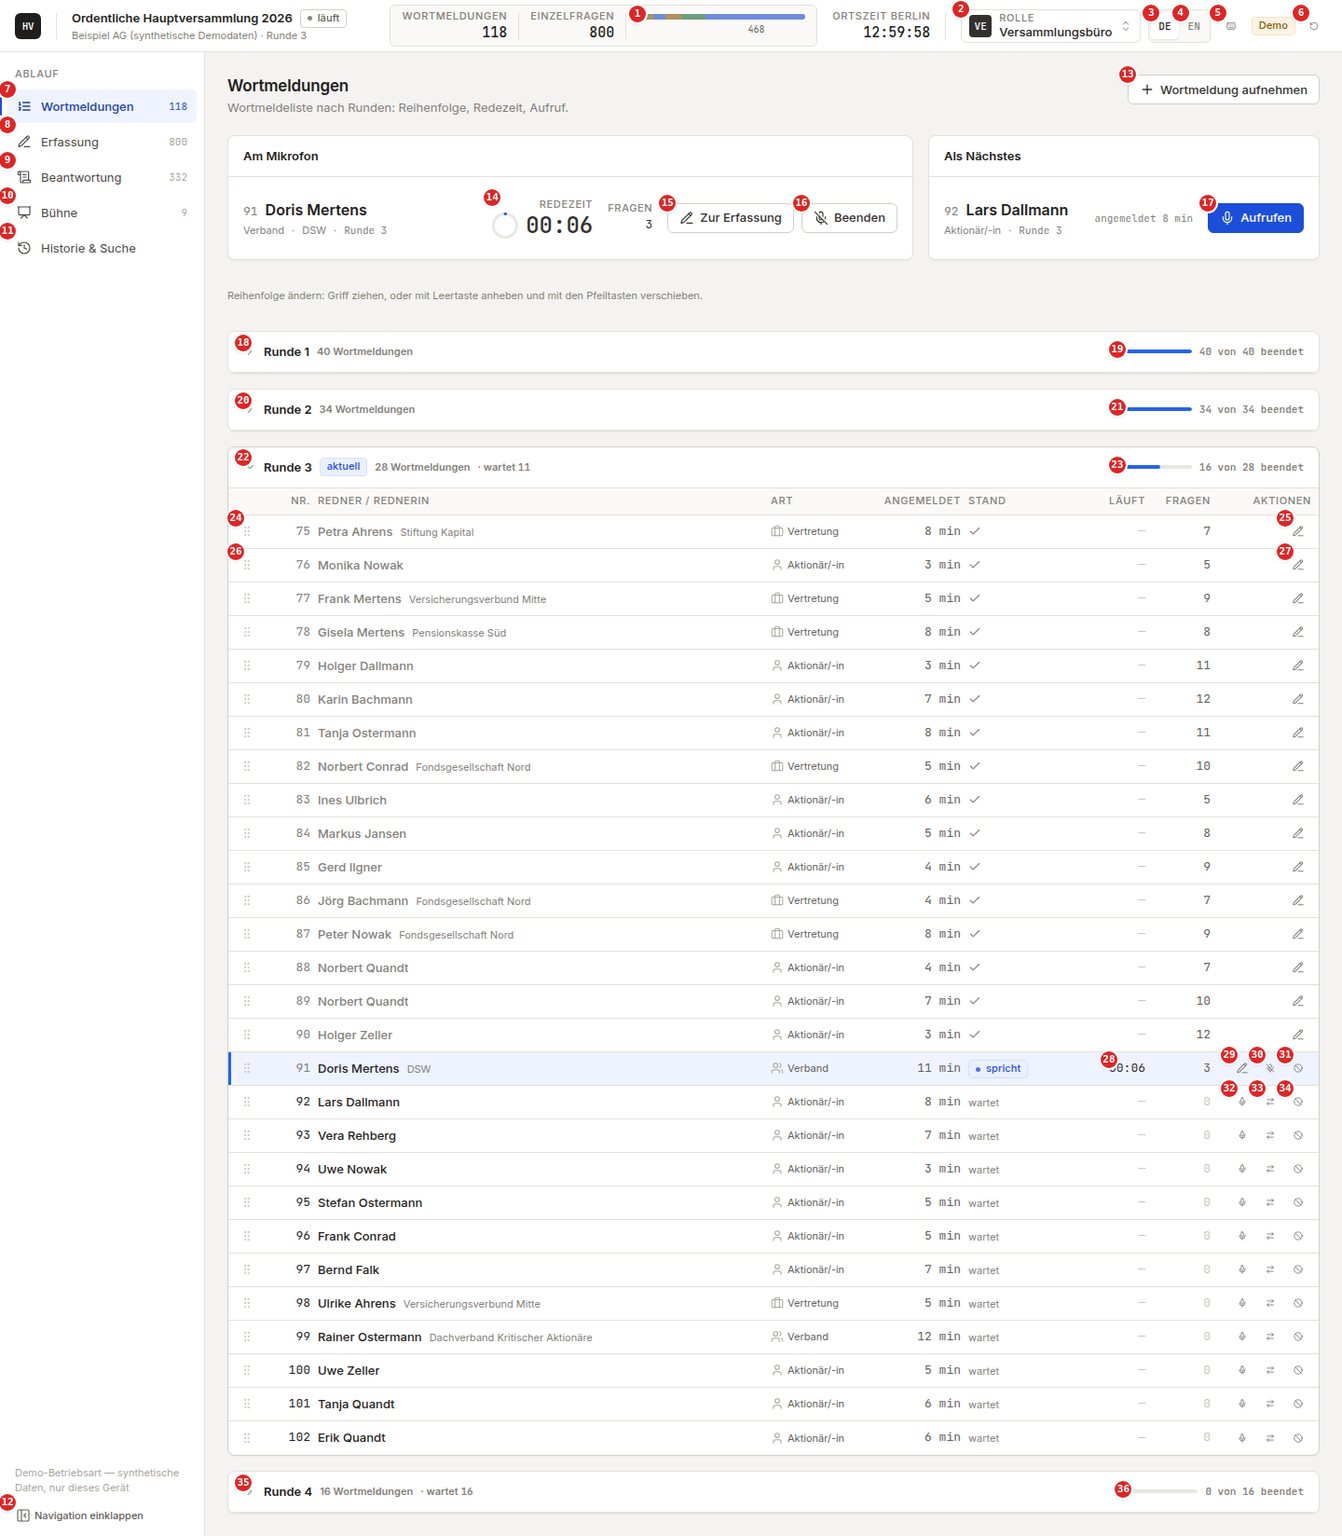
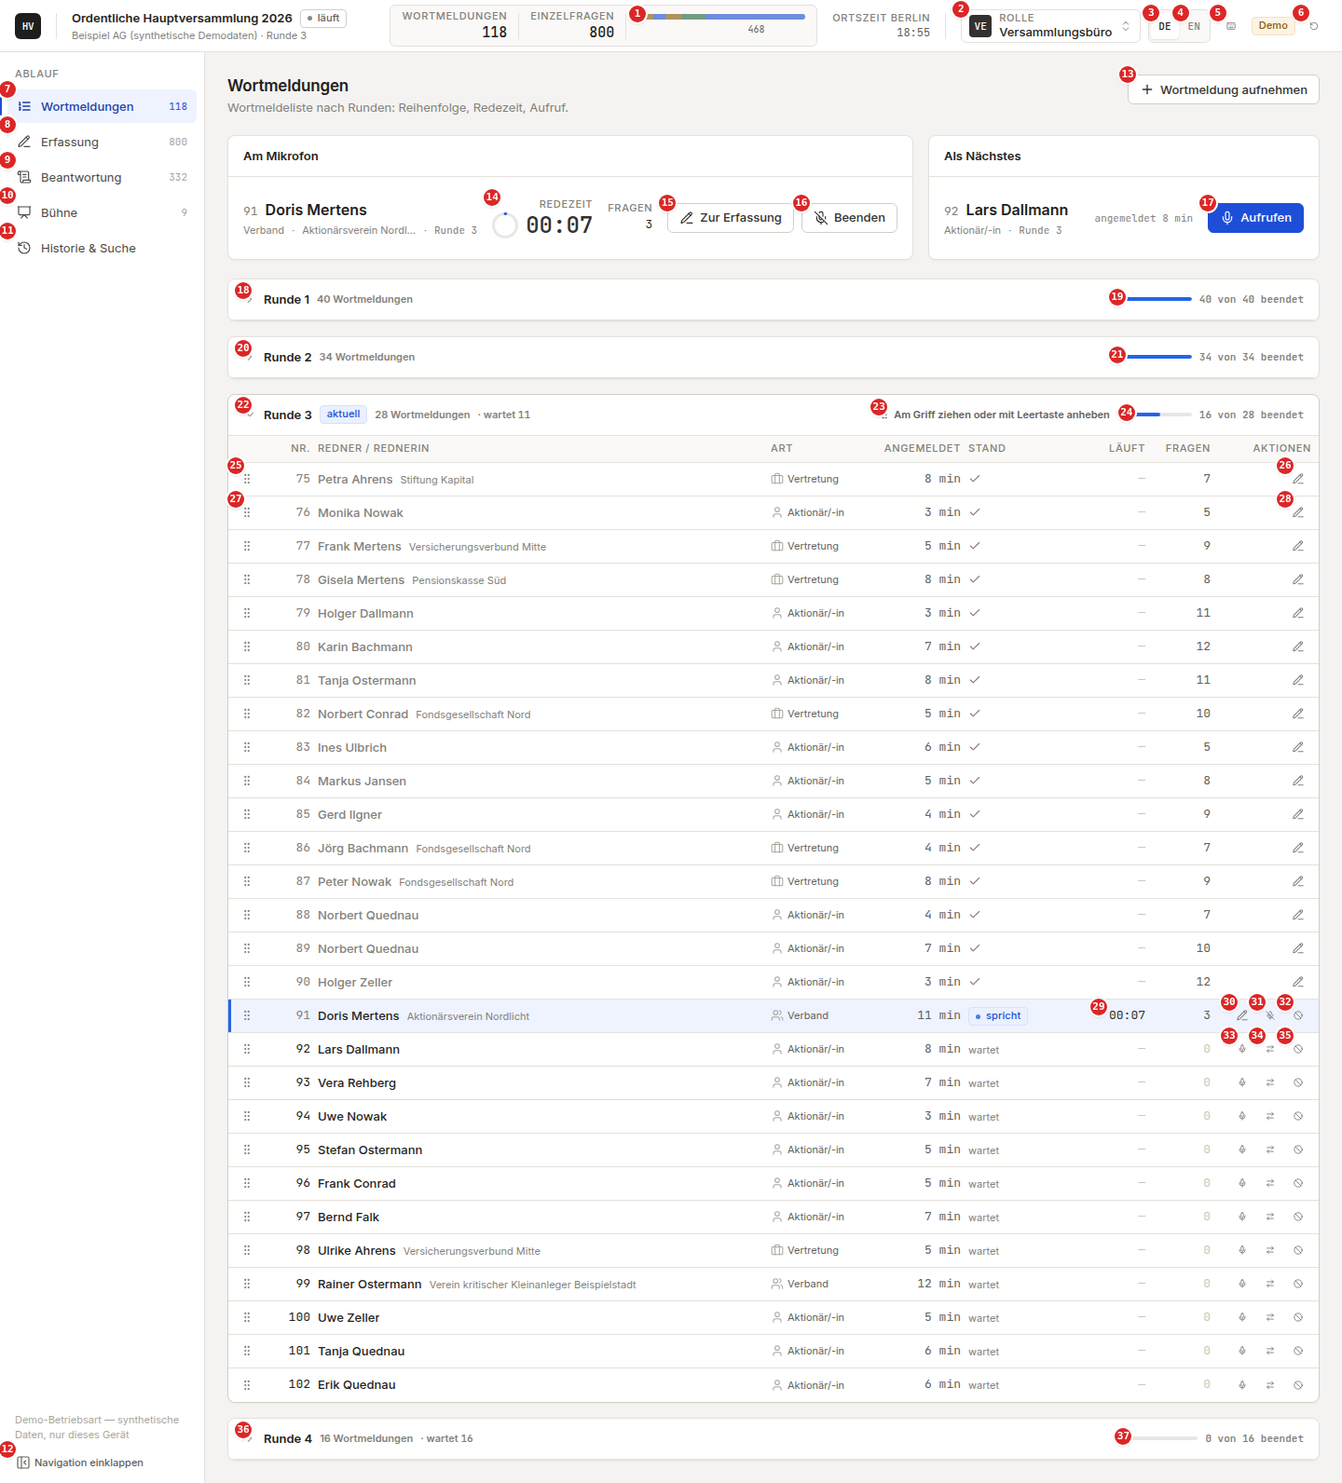
fix(domain): takt-004 fiktive Vereinsnamen im Seed, Screenshot des Fragenpakets neu [skip netlify]
Scheibe takt-004: ASSOCIATIONS/LAST_NAMES im Seed auf erkennbar fiktive Namen umgestellt (Review 014
Runde 1 Befund 10, Runde 2 Punkt 11), Zufallsfolge unverändert (gleiche Array-Längen/Reihenfolge),
neuer Test seed-fictitious-names.test.ts. Wortmeldeliste-Screenshot auf dem Stand nach Scheibe 020
neu erzeugt (37 statt 36 Marken: neuer Rundenhinweis Runde 3), N5 behoben (Marke deckte eine Ziffer
der Redezeit ab). Legende und Zahl-Nennungen im Fragenpaket entsprechend angepasst, Frage 1
unverändert.

Claude-Session: https://claude.ai/code/session_01S9NCWL4pWEoGm6P6dJbckX

diff --git a/packages/domain/src/__tests__/seed-fictitious-names.test.ts b/packages/domain/src/__tests__/seed-fictitious-names.test.ts
@@ -1,0 +1,56 @@
+/**
+ * takt-004: the synthetic corpus must never resemble a real shareholder association or a known
+ * family name from the shareholder-activism context (review 014 round 1 finding 10, round 2 point
+ * 11). This test guards the fix in `seed.ts` (`ASSOCIATIONS`, `LAST_NAMES`) so a future edit cannot
+ * silently reintroduce one of the five old names, and pins the corpus size the fix must not change.
+ */
+import { describe, expect, it } from 'vitest';
+import { project } from '../state.js';
+import { seedEvents } from '../seed.js';
+import type { DomainEvent } from '../events.js';
+
+// Same options as the corpus test in `seed.test.ts`, so the counts below are the ones already
+// established for today's seed (118 Wortmeldungen from `roundSizes`, 800 Einzelfragen requested).
+const OPTIONS = {
+  questions: 800,
+  seed: 2027,
+  now: new Date('2027-04-20T13:30:00.000Z'),
+  actor: { id: 'sys', role: 'admin' as const },
+};
+
+const FORBIDDEN_NAMES = [
+  /DSW/,
+  /SdK/,
+  /Kritischer Aktionäre/,
+  /Kleinaktionäre/,
+  /Quandt/,
+];
+
+describe('seed corpus: no real association or family names (takt-004)', () => {
+  const events = seedEvents(OPTIONS);
+  const state = project(events.map((e, i) => ({ ...e, seq: i + 1 }) as DomainEvent));
+
+  it('does not contain any of the five retired names anywhere in speaker or contribution text', () => {
+    const haystack: string[] = [];
+    for (const speaker of state.speakers.values()) {
+      haystack.push(speaker.displayName);
+      if (speaker.organisation !== undefined) haystack.push(speaker.organisation);
+    }
+    for (const contribution of state.contributions.values()) haystack.push(contribution.text);
+    const joined = haystack.join('\n');
+    for (const pattern of FORBIDDEN_NAMES) {
+      expect(joined).not.toMatch(pattern);
+    }
+  });
+
+  it('keeps the same number of Wortmeldungen and Einzelfragen as before the name change', () => {
+    // roundSizes = [40, 34, 28, 16] in seed.ts — unchanged by this slice.
+    expect(state.speakers.size).toBe(118);
+    expect(state.questions.size).toBe(800);
+  });
+
+  it('keeps the seeded random sequence unchanged (same event ids and types as the reference run)', () => {
+    const again = seedEvents(OPTIONS);
+    expect(again.map((e) => e.type + e.subjectId)).toEqual(events.map((e) => e.type + e.subjectId));
+  });
+});

diff --git a/packages/domain/src/seed.ts b/packages/domain/src/seed.ts
@@ -310,8 +310,11 @@ const CLOSINGS = [
 ];
 const FIRST_NAMES_F = ['Anna', 'Birgit', 'Claudia', 'Doris', 'Eva', 'Frauke', 'Gisela', 'Hanna', 'Ines', 'Julia', 'Karin', 'Lena', 'Monika', 'Nadine', 'Petra', 'Renate', 'Sabine', 'Tanja', 'Ulrike', 'Vera'];
 const FIRST_NAMES_M = ['Andreas', 'Bernd', 'Christian', 'Dieter', 'Erik', 'Frank', 'Gerd', 'Holger', 'Ingo', 'Jörg', 'Klaus', 'Lars', 'Markus', 'Norbert', 'Olaf', 'Peter', 'Rainer', 'Stefan', 'Thomas', 'Uwe'];
-const LAST_NAMES = ['Ahrens', 'Bachmann', 'Conrad', 'Dallmann', 'Ebert', 'Falk', 'Grunwald', 'Hartwig', 'Ilgner', 'Jansen', 'Kessler', 'Lindner', 'Mertens', 'Nowak', 'Ostermann', 'Pfeiffer', 'Quandt', 'Rehberg', 'Seidel', 'Thalmann', 'Ulbrich', 'Vogt', 'Wendt', 'Zeller'];
-const ASSOCIATIONS = ['DSW', 'SdK', 'Verband der Kleinaktionäre', 'Dachverband Kritischer Aktionäre'];
+const LAST_NAMES = ['Ahrens', 'Bachmann', 'Conrad', 'Dallmann', 'Ebert', 'Falk', 'Grunwald', 'Hartwig', 'Ilgner', 'Jansen', 'Kessler', 'Lindner', 'Mertens', 'Nowak', 'Ostermann', 'Pfeiffer', 'Quednau', 'Rehberg', 'Seidel', 'Thalmann', 'Ulbrich', 'Vogt', 'Wendt', 'Zeller'];
+// Fictitious associations only (takt-004): the demo corpus must never resemble a real shareholder
+// association (review 014 round 1 finding 10, round 2 point 11) — same count and order as before, so
+// the seeded RNG sequence (and every downstream id/timestamp) is unchanged.
+const ASSOCIATIONS = ['Aktionärsverein Nordlicht', 'Schutzgemeinschaft Musterstadt', 'Anlegerkreis am Elbufer', 'Verein kritischer Kleinanleger Beispielstadt'];
 const INSTITUTIONS = ['Fondsgesellschaft Nord', 'Pensionskasse Süd', 'Versicherungsverbund Mitte', 'Stiftung Kapital'];
 
 function fill(template: string, rnd: () => number, year: number): string {

diff --git a/docs/slices/takt-004-seed-fiktive-namen.md b/docs/slices/takt-004-seed-fiktive-namen.md
@@ -1,6 +1,6 @@
 # takt-004 — Seed: fiktive Vereinsnamen, Screenshot des Fragenpakets neu
 
-**Status:** spec
+**Status:** review
 **Klasse:** S (Kleinänderungsspur, Produktplan 5.9) · Risikoklasse niedrig · Lanes: core (nur `seed.ts`; 012 gemergt,
 keine laufende Scheibe hält core), docs-feedback
 **Rolle/Modell:** Implementierer-Oberfläche · Sonnet 5 baut (Screenshot mit Legende, wie in 014); Review Opus 5.5
@@ -47,6 +47,156 @@ Treffer; die neue PNG und der Befehl, mit dem sie erzeugt wurde.
 ## Bericht
 
 (vom Bauenden)
+
+**1. Seed.** `packages/domain/src/seed.ts`: `ASSOCIATIONS` auf die vier vorgegebenen fiktiven Namen
+umgestellt (`Aktionärsverein Nordlicht`, `Schutzgemeinschaft Musterstadt`, `Anlegerkreis am Elbufer`,
+`Verein kritischer Kleinanleger Beispielstadt`), gleiche Anzahl und Reihenfolge; `LAST_NAMES`:
+`'Quandt'` an derselben Stelle durch `'Quednau'` ersetzt. Kein Array hat die Länge geändert, also
+zieht `pick()` (`Math.floor(rnd() * arr.length)`) exakt dieselben Indizes wie vorher — die
+Zufallsfolge des Seeds bleibt unverändert. Neuer Test
+`packages/domain/src/__tests__/seed-fictitious-names.test.ts` (gleiche Seed-Optionen wie
+`seed.test.ts`: `questions: 800, seed: 2027, now: 2027-04-20T13:30:00Z`) prüft: (a) keiner der fünf
+alten Namen kommt in Redner-Namen, Organisationen oder Redebeitragstexten vor, (b) 118
+Wortmeldungen (`roundSizes` 40+34+28+16, unverändert) und 800 Einzelfragen bleiben exakt gleich, (c)
+ein zweiter Lauf mit denselben Optionen erzeugt exakt dieselbe Ereignisfolge (Typ+SubjectId je
+Event) wie der Referenzlauf — Determinismus/Zufallsfolge bestätigt.
+
+**2. Screenshot und Legende.** Vite lief unter `apps/web` auf Port 4393
+(`pnpm exec vite --port 4393 --strictPort`). Die Skripte aus
+`.../scratchpad/shot014/{shot.mjs,generate-legend.mjs}` wurden nach
+`.../scratchpad/shot-takt004/` kopiert und dort angepasst (Pfade auf `/home/user/wt/takt`, Port
+4393; beide Kopien bleiben im Scratch, nicht im Repo):
+- `shot.mjs`: prüft jetzt je Runde, ob `round-drag-hint-${round}` sichtbar ist (statt fest auf Runde 3
+  verdrahtet) und badgt ihn zwischen Rundenkopf-Schalter und Rundenfortschritt — genau die Stelle, an
+  der der Hinweis seit Scheibe 020 im Rundenkopf sitzt. Für Runde 3 (einzige offene Runde) ergab das
+  einen neuen Marker (jetzt Nr. 23), macht 37 statt vormals 36 Marken.
+- N5 behoben ("Marke 28 verdeckt eine Ziffer", jetzt Marke 29 `row-speaking-elapsed`): die Marke lag
+  exakt auf der ersten Ziffer der Redezeit ("00:06"); sie wird jetzt 11 px nach links in die
+  vorhandene Leerfläche der rechtsbündigen LÄUFT-Spalte verschoben, deckt keine Ziffer mehr ab
+  (verifiziert per Bildschnitt vor/nach der Änderung).
+- Ein zweites, beim Nacharbeiten gefundenes Problem gleicher Art: der neue Rundenhinweis und die
+  Rundenfortschritts-Anzeige liegen nur 8 px auseinander; die Fortschritts-Marke hätte das letzte
+  Wort des Hinweistexts angeschnitten. Fix: Fortschritts-Marke um 10 px nach rechts, hinter den
+  Hinweistext.
+- `generate-legend.mjs`: Pfade auf `.../shot-takt004/legend.json` und
+  `docs/feedback/2026-10-fragenpaket-woche-1.md` umgestellt; neue Beschriftung/Beschreibung für
+  `round-N-drag-hint` ("Verschiebehinweis Runde N") ergänzt, dynamisch nach Rundennummer, sonst
+  unverändert (Querverweise, „weitere Zeilen"-Absatz bleiben automatisch berechnet).
+
+Befehle (in dieser Reihenfolge):
+```
+cd /home/user/wt/takt/apps/web && pnpm exec vite --port 4393 --strictPort &
+node /tmp/claude-0/-home-user-hvworkflow/ba1d545a-db2b-57e2-a725-96ea31145014/scratchpad/shot-takt004/shot.mjs
+node /tmp/claude-0/-home-user-hvworkflow/ba1d545a-db2b-57e2-a725-96ea31145014/scratchpad/shot-takt004/generate-legend.mjs
+```
+Ausgabe: `Wrote .../docs/feedback/2026-10-fragenpaket-wortmeldeliste.png`, `Badged 37 elements.`,
+`Patched .../2026-10-fragenpaket-woche-1.md with 37 legend rows.`
+
+Die PNG wurde mit dem Read-Werkzeug angesehen und jede der 37 Nummern gegen ihre Legendenzeile
+geprüft (Header/Navigation 1–13, Am-Mikrofon/Als-Nächstes 14–17, Rundenköpfe 18–24 inkl. neuem
+Hinweis 23, Zeilen 25–35, Runde 4 36–37); keine Marke deckt Text ab, Nummern laufen 1..37 ohne
+Lücke. Die Uhr im Header (kleine HH:MM-Anzeige, „ORTSZEIT BERLIN 18:5x") ist kein Bedienelement und
+kein neuer Hinweis und bleibt deshalb unnummeriert; sie wird von keiner Marke verdeckt.
+
+**3. Fragenpaket.** `docs/feedback/2026-10-fragenpaket-woche-1.md`: nur die Legendentabelle im Anhang
+wurde ersetzt (37 statt 36 Zeilen; neue Zeile 23 „Verschiebehinweis Runde 3", alle Folgenummern und
+die Querverweise im Absatz danach automatisch verschoben). Frage 1 (Text, Kontext, Annahme, Frist)
+unverändert; sonst nennt das Fragenpaket die Zahl 36 an keiner weiteren Stelle (geprüft per Grep).
+
+**4. Gates und Tests.** `pnpm gates` grün (Tail unten). Vollständige Playwright-Suite
+(`E2E_PORT=4342 pnpm exec playwright test` in `apps/web`): 9/9 grün. Anschließend
+`git -C /home/user/wt/takt checkout -- docs/evidence` ausgeführt — die durch die neuen Namen
+geänderten Nachweisbilder alter Scheiben wurden verworfen, nichts davon committet.
+`git -C /home/user/wt/takt grep -n "DSW\|SdK\|Kritischer Aktionäre\|Kleinaktionäre\|Quandt"` liefert
+nur zwei Treffer, beide in dieser Spec-Datei selbst (Ziel-Absatz 2 und der Nachweis-Absatz, die den
+zu ersetzenden Namen bzw. den Prüfbefehl wörtlich zitieren); im Seed, im erzeugten Korpus, im
+Screenshot, in der Legende und überall sonst im Repository kein Treffer.
+
+**Evidence (Tail `pnpm gates`):**
+```
+> hvworkflow@0.1.0 vocabulary /home/user/wt/takt
+> node scripts/vocabulary-check.mjs
+
+vocabulary-check: ok
+
+> hvworkflow@0.1.0 arch /home/user/wt/takt
+> depcruise --config scripts/dependency-cruiser.cjs apps/web/src apps/api/src packages/domain/src
+
+  warn web-features-i18n-domain-types-only: apps/web/src/features/stage/Page.tsx → packages/domain/src/index.ts
+  warn web-features-i18n-domain-types-only: apps/web/src/features/speakers/Page.tsx → packages/domain/src/index.ts
+  warn web-features-i18n-domain-types-only: apps/web/src/features/capture/ClassifyDialog.tsx → packages/domain/src/index.ts
+  warn web-features-i18n-domain-types-only: apps/web/src/features/answers/WorkList.tsx → packages/domain/src/index.ts
+  warn web-features-i18n-domain-types-only: apps/web/src/features/answers/useBacklog.ts → packages/domain/src/index.ts
+  warn web-features-i18n-domain-types-only: apps/web/src/features/answers/QuestionDetail.tsx → packages/domain/src/index.ts
+  warn web-features-i18n-domain-types-only: apps/web/src/features/answers/Page.tsx → packages/domain/src/index.ts
+
+x 7 dependency violations (0 errors, 7 warnings). 132 modules, 487 dependencies cruised.
+
+> hvworkflow@0.1.0 role-literals /home/user/wt/takt
+> node scripts/role-literal-check.mjs
+
+Role-literal check: no role-name literal outside the policy layer (apps/api/src, packages/domain/src); roles from packages/domain/src/types.ts: moderation, capture, expert, legal, approver, podium, admin, observer (role-context required only for: expert, legal, podium).
+
+> hvworkflow@0.1.0 now-check /home/user/wt/takt
+> node scripts/now-check.mjs
+
+now() check: no direct system-clock access outside the injected clock (packages/domain/src, apps/api/src).
+
+> hvworkflow@0.1.0 plan-honesty /home/user/wt/takt
+> node scripts/plan-honesty.mjs
+
+Plan-honesty check: 4 table(s), 38 row(s) in section 5, every "Stand" verified.
+
+> @hv/web@0.0.0 build /home/user/wt/takt/apps/web
+> tsc -b && vite build
+
+vite v8.2.2 building client environment for production...
+transforming...
+✓ 1714 modules transformed.
+rendering chunks...
+computing gzip size...
+dist/index.html                                        0.43 kB │ gzip:   0.27 kB
+dist/assets/jetbrains-mono-latin-ext-DIC32ArD.woff2   11.62 kB
+dist/assets/jetbrains-mono-latin-6fWv1k7M.woff2       31.43 kB
+dist/assets/inter-latin-Dx4kXJAl.woff2                48.25 kB
+dist/assets/inter-latin-ext-DO1Apj_S.woff2            85.06 kB
+dist/assets/index-l931jxa-.css                        39.97 kB │ gzip:   8.67 kB
+dist/assets/index-DVViwHry.js                        528.48 kB │ gzip: 155.10 kB │ map: 2,175.78 kB
+✓ built in 1.01s
+```
+
+**Evidence (`pnpm --filter @hv/domain test`, enthalten in `pnpm gates`):**
+```
+ Test Files  5 passed (5)
+      Tests  42 passed (42)
+```
+
+**Evidence (Playwright, `E2E_PORT=4342 pnpm exec playwright test`):**
+```
+Running 9 tests using 2 workers
+
+  ✓  1 [chromium] › e2e/001-shell.spec.ts:16:1 › shell: counters, role switch, language switch @screenshot (3.7s)
+  ✓  3 [chromium] › e2e/001-shell.spec.ts:75:1 › header strip on the answers desk @screenshot (3.0s)
+  ✓  2 [chromium] › e2e/002-speakers-capture.spec.ts:61:1 › speakers list and capture desk @screenshot (10.5s)
+  ✓  5 [chromium] › e2e/020-rueckbau-passung.spec.ts:198:1 › 020: Rückbau und Passung — points 1–9, axe on the five views (21.5s)
+  ✓  6 [chromium] › e2e/020-rueckbau-passung.spec.ts:599:1 › 020: "Nur Bühne" default — aus den Rechten, nicht aus der Rolle (6.3s)
+  ✓  7 [chromium] › e2e/020-rueckbau-passung.spec.ts:642:1 › 020: Uhr — keine Änderung innerhalb einer Minute, exakt eine am Minutenwechsel (1.4s)
+  ✓  8 [chromium] › e2e/020-rueckbau-passung.spec.ts:682:1 › 020: leere Zustände — Erfassung ohne Redebeitrag, Bühne ohne Warteschlange (5.3s)
+  ✓  4 [chromium] › e2e/003-answers-stage.spec.ts:43:1 › backlog, approval, podium and history @screenshot (48.7s)
+  ✓  9 [chromium] › e2e/abnahme.spec.ts:86:1 › @abnahme Redebeitrag zu sieben Einzelfragen, beantwortet, freigegeben, vorgelesen (39.1s)
+
+  9 passed (1.5m)
+```
+
+**Grep-Nachweis:**
+```
+$ git -C /home/user/wt/takt grep -n "DSW\|SdK\|Kritischer Aktionäre\|Kleinaktionäre\|Quandt"
+docs/slices/takt-004-seed-fiktive-namen.md:17:2. `LAST_NAMES`: `'Quandt'` durch `'Quednau'` ersetzen (gleiche Stelle; ein bekannter Familienname im
+docs/slices/takt-004-seed-fiktive-namen.md:44:Tail von `pnpm gates`; alle Playwright-Szenarien grün; `git grep -n "DSW\|SdK\|Kritischer Aktionäre\|Kleinaktionäre\|Quandt"` ohne
+```
+Beide Treffer sind Selbstzitate dieser Spec (die zu ersetzenden Namen im Ziel-Absatz, der Prüfbefehl
+im Nachweis-Absatz) — unvermeidbar, solange die Spec unverändert bleibt. Kein Treffer in Code, Seed,
+Testdaten, PNG oder Fragenpaket.
 
 ## Review findings
 

diff --git a/docs/feedback/2026-10-fragenpaket-woche-1.md b/docs/feedback/2026-10-fragenpaket-woche-1.md
@@ -275,19 +275,20 @@ sichtbaren Knöpfen; jede Nummer markiert einen Knopf oder ein Bedienelement).
 | 20 | Runde 2 ausklappen | Klappt Runde 2 auf, um ihre Wortmeldungen zu zeigen; eingeklappt, weil nicht die aktuelle Runde. |
 | 21 | Rundenfortschritt Runde 2 | Zeigt den Anteil der in Runde 2 bereits beendeten Wortmeldungen. |
 | 22 | Runde 3 einklappen | Klappt die aktuelle Runde 3 wieder ein; sie ist beim Öffnen der Wortmeldeliste automatisch aufgeklappt. |
-| 23 | Rundenfortschritt Runde 3 | Zeigt den Anteil der in Runde 3 bereits beendeten Wortmeldungen. |
-| 24 | Wortmeldung 75 verschieben | Greift Wortmeldung Nr. 75 zum Verschieben innerhalb von Runde 3 (Ziehen, oder Leertaste zum Anheben und Pfeiltasten zum Verschieben); derselbe Griff steht am linken Rand jeder Zeile. |
-| 25 | Redebeitrag von Wortmeldung 75 erfassen | Öffnet die Erfassung für Wortmeldung Nr. 75, weil sie bereits gesprochen hat; dieselbe Schaltfläche erscheint in jeder Zeile mit dem Stand „spricht" oder „beendet". |
-| 26 | Wortmeldung 76 verschieben | Greift Wortmeldung Nr. 76 zum Verschieben innerhalb von Runde 3; gleich in jeder Zeile (siehe Nr. 24). |
-| 27 | Redebeitrag von Wortmeldung 76 erfassen | Öffnet die Erfassung für Wortmeldung Nr. 76; gleich in jeder Zeile mit dem Stand „spricht" oder „beendet" (siehe Nr. 25). |
-| 28 | Läuft (Wortmeldung 91) | Digitalanzeige der laufenden Redezeit von Wortmeldung Nr. 91 (Spalte „Läuft"); zeigt „—", solange niemand am Mikrofon ist. |
-| 29 | Redebeitrag von Wortmeldung 91 erfassen | Öffnet die Erfassung für Wortmeldung Nr. 91, die gerade spricht (gleich in jeder Zeile mit diesem Stand). |
-| 30 | Wortmeldung 91 beenden | Beendet Wortmeldung Nr. 91; ihr Stand wechselt auf „beendet" (gleich in jeder Zeile mit diesem Stand). |
-| 31 | Wortmeldung 91 zurückziehen | Zieht Wortmeldung Nr. 91 zurück (gleich in jeder Zeile mit diesem Stand). |
-| 32 | Wortmeldung 92 aufrufen | Ruft Wortmeldung Nr. 92 ans Mikrofon; eine noch laufende Wortmeldung wird dabei zuerst automatisch beendet (gleich in jeder Zeile mit diesem Stand). |
-| 33 | Wortmeldung 92 in eine andere Runde verschieben | Öffnet den Dialog, um Wortmeldung Nr. 92 in eine andere Runde zu verschieben (gleich in jeder Zeile mit diesem Stand). |
-| 34 | Wortmeldung 92 zurückziehen | Zieht Wortmeldung Nr. 92 zurück (gleich in jeder Zeile mit diesem Stand). |
-| 35 | Runde 4 ausklappen | Klappt Runde 4 auf, um ihre Wortmeldungen zu zeigen; eingeklappt, weil nicht die aktuelle Runde. |
-| 36 | Rundenfortschritt Runde 4 | Zeigt den Anteil der in Runde 4 bereits beendeten Wortmeldungen. |
+| 23 | Verschiebehinweis Runde 3 | Text- und Symbolhinweis im Kopf von Runde 3: zeigt, dass Wortmeldungen dieser Runde am Griff gezogen oder mit der Leertaste angehoben und dann mit den Pfeiltasten verschoben werden können; erscheint nur, wenn die Runde aufgeklappt ist und Wortmeldungen darin verschoben werden dürfen. |
+| 24 | Rundenfortschritt Runde 3 | Zeigt den Anteil der in Runde 3 bereits beendeten Wortmeldungen. |
+| 25 | Wortmeldung 75 verschieben | Greift Wortmeldung Nr. 75 zum Verschieben innerhalb von Runde 3 (Ziehen, oder Leertaste zum Anheben und Pfeiltasten zum Verschieben); derselbe Griff steht am linken Rand jeder Zeile. |
+| 26 | Redebeitrag von Wortmeldung 75 erfassen | Öffnet die Erfassung für Wortmeldung Nr. 75, weil sie bereits gesprochen hat; dieselbe Schaltfläche erscheint in jeder Zeile mit dem Stand „spricht" oder „beendet". |
+| 27 | Wortmeldung 76 verschieben | Greift Wortmeldung Nr. 76 zum Verschieben innerhalb von Runde 3; gleich in jeder Zeile (siehe Nr. 25). |
+| 28 | Redebeitrag von Wortmeldung 76 erfassen | Öffnet die Erfassung für Wortmeldung Nr. 76; gleich in jeder Zeile mit dem Stand „spricht" oder „beendet" (siehe Nr. 26). |
+| 29 | Läuft (Wortmeldung 91) | Digitalanzeige der laufenden Redezeit von Wortmeldung Nr. 91 (Spalte „Läuft"); zeigt „—", solange niemand am Mikrofon ist. |
+| 30 | Redebeitrag von Wortmeldung 91 erfassen | Öffnet die Erfassung für Wortmeldung Nr. 91, die gerade spricht (gleich in jeder Zeile mit diesem Stand). |
+| 31 | Wortmeldung 91 beenden | Beendet Wortmeldung Nr. 91; ihr Stand wechselt auf „beendet" (gleich in jeder Zeile mit diesem Stand). |
+| 32 | Wortmeldung 91 zurückziehen | Zieht Wortmeldung Nr. 91 zurück (gleich in jeder Zeile mit diesem Stand). |
+| 33 | Wortmeldung 92 aufrufen | Ruft Wortmeldung Nr. 92 ans Mikrofon; eine noch laufende Wortmeldung wird dabei zuerst automatisch beendet (gleich in jeder Zeile mit diesem Stand). |
+| 34 | Wortmeldung 92 in eine andere Runde verschieben | Öffnet den Dialog, um Wortmeldung Nr. 92 in eine andere Runde zu verschieben (gleich in jeder Zeile mit diesem Stand). |
+| 35 | Wortmeldung 92 zurückziehen | Zieht Wortmeldung Nr. 92 zurück (gleich in jeder Zeile mit diesem Stand). |
+| 36 | Runde 4 ausklappen | Klappt Runde 4 auf, um ihre Wortmeldungen zu zeigen; eingeklappt, weil nicht die aktuelle Runde. |
+| 37 | Rundenfortschritt Runde 4 | Zeigt den Anteil der in Runde 4 bereits beendeten Wortmeldungen. |
 
-Weitere Zeilen von Runde 3 tragen keine eigene Nummer, damit das Bild lesbar bleibt, wiederholen aber dieselben Bedienelemente: Wortmeldungen mit dem Stand „beendet" (z. B. Nr. 77–90) zeigen Griff und Erfassungs-Schaltfläche wie Nr. 24–27; eine zweite laufende Wortmeldung würde Läuft-Anzeige, Erfassungs-, Beenden- und Zurückziehen-Schaltfläche wie Nr. 28–31 zeigen; weitere wartende Wortmeldungen (z. B. Nr. 93 und folgende) zeigen Aufrufen-, Verschieben- und Zurückziehen-Schaltfläche wie Nr. 32–34.
+Weitere Zeilen von Runde 3 tragen keine eigene Nummer, damit das Bild lesbar bleibt, wiederholen aber dieselben Bedienelemente: Wortmeldungen mit dem Stand „beendet" (z. B. Nr. 77–90) zeigen Griff und Erfassungs-Schaltfläche wie Nr. 25–28; eine zweite laufende Wortmeldung würde Läuft-Anzeige, Erfassungs-, Beenden- und Zurückziehen-Schaltfläche wie Nr. 29–32 zeigen; weitere wartende Wortmeldungen (z. B. Nr. 93 und folgende) zeigen Aufrufen-, Verschieben- und Zurückziehen-Schaltfläche wie Nr. 33–35.
